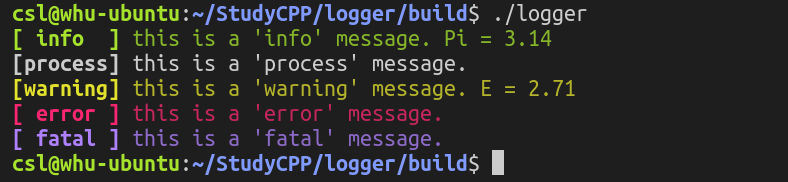
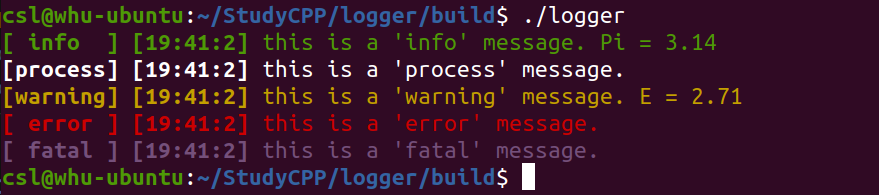
add time printer

Changed region(s): [[0.0, 0.1648, 0.8528, 0.989], [0.0, 0.0275, 0.7614, 0.1374]]

diff --git a/include/logger.h b/include/logger.h
@@ -3,6 +3,8 @@
 #include <iostream>
 #include <string>
 #include <unordered_map>
+#include <ctime>
+#include <tuple>
 
 namespace ns_log
 {
@@ -101,17 +103,28 @@ namespace ns_log
 
     static std::ostream *loggerOS = &std::cout;
 
+    static const char endl = '\n';
+
+    static LogType curLogType = LogType::INIT;
+
+    static bool printTime = true;
+
     static const Logger process(LogType::PROCESS, ColorType::B_NONE, ColorType::NONE);
     static const Logger info(LogType::INFO, ColorType::B_GREEN, ColorType::GREEN);
     static const Logger warning(LogType::WARNING, ColorType::B_YELLOW, ColorType::YELLOW);
     static const Logger error(LogType::ERROR, ColorType::B_RED, ColorType::RED);
     static const Logger fatal(LogType::FATAL, ColorType::B_PURPLE, ColorType::PURPLE);
 
-    static LogType curLogType = LogType::INIT;
+    static void setOstream(std::ostream &os) { loggerOS = &os; }
 
-    static const char endl = '\n';
+    static void setPrintTime(bool printTime) { ns_log::printTime = printTime; }
 
-    void setLoggerOS(std::ostream &os) { loggerOS = &os; }
+    static std::tuple<uint, uint, uint> curTime()
+    {
+        time_t now = time(0);
+        tm *ltm = localtime(&now);
+        return {ltm->tm_hour, ltm->tm_min, ltm->tm_sec};
+    }
 
 #pragma endregion
 
@@ -122,7 +135,15 @@ namespace ns_log
             *(loggerOS) << colorMap.at(logger.descColor());
 
         if (logger.logType() != curLogType)
-            *(loggerOS) << descMap.at(logger.logType()), curLogType = logger.logType();
+        {
+            *(loggerOS) << descMap.at(logger.logType());
+            curLogType = logger.logType();
+            if (printTime)
+            {
+                auto [h, m, s] = curTime();
+                *(loggerOS) << '[' << h << ':' << m << ':' << s << "] ";
+            }
+        }
 
         if (loggerOS == &std::cout)
             *(loggerOS) << colorMap.at(logger.msgColor());
